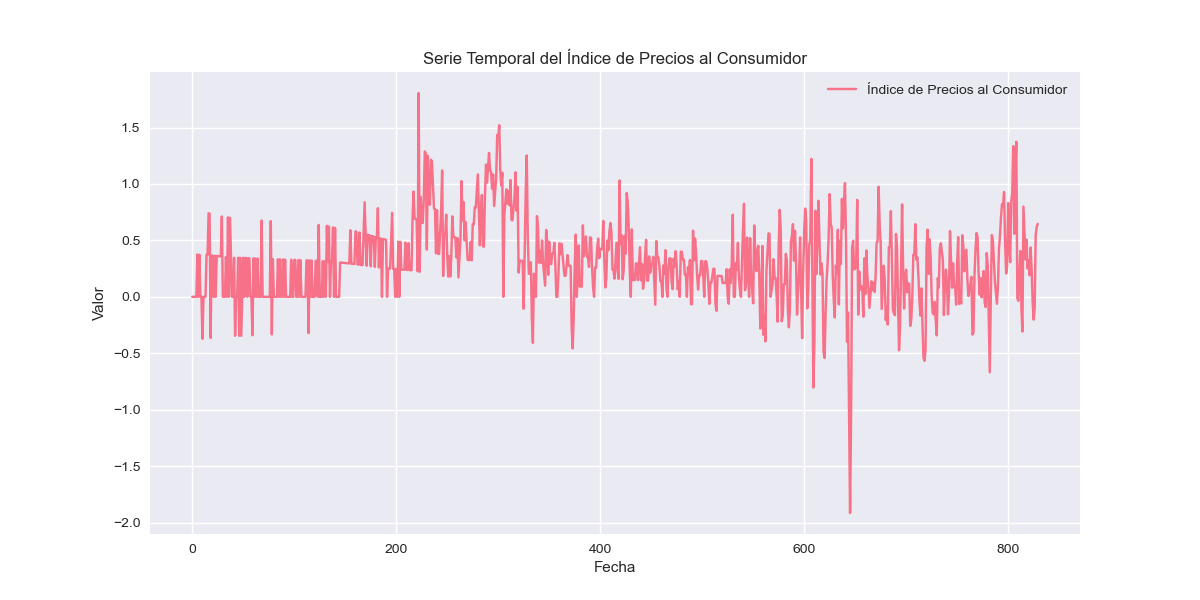
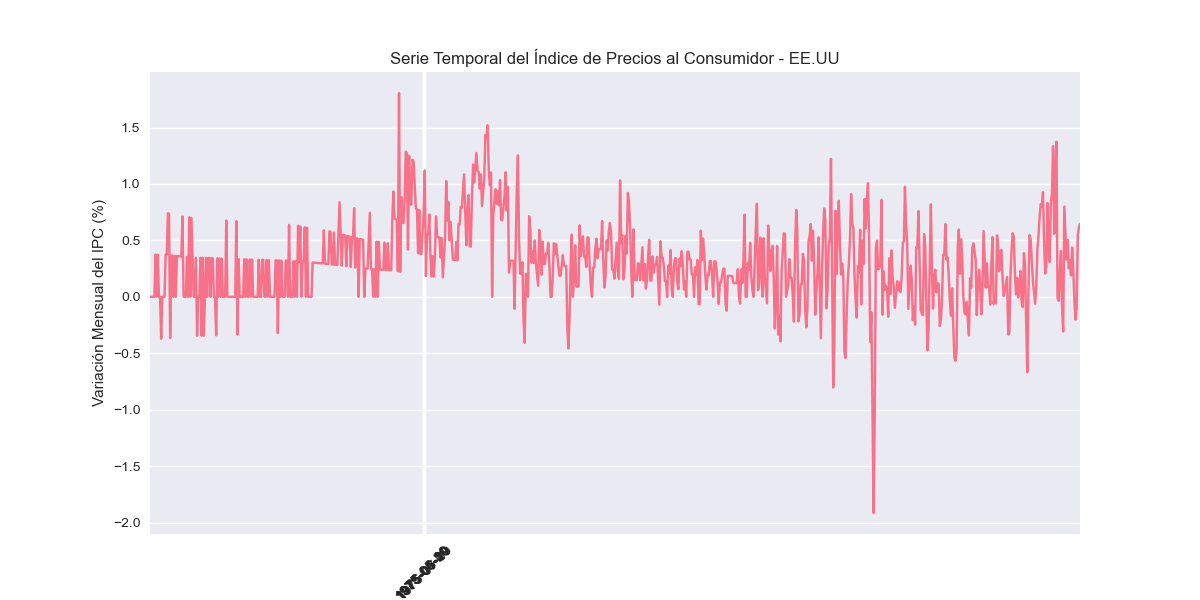
cambios código ipc

diff --git a/econometria_ipc.py b/econometria_ipc.py
@@ -5,6 +5,7 @@
 import numpy as np
 import pandas as pd
 import matplotlib.pyplot as plt
+import matplotlib.dates as mdates
 from pathlib import Path
 from scipy.stats import jarque_bera, probplot
 from statsmodels.tsa.arima.model import ARIMA
@@ -23,35 +24,38 @@ def cargar_datos():
     BASE_DIR = Path(__file__).resolve().parent
     DATA_DIR = BASE_DIR / "datos"
     data_path = DATA_DIR / "dato_posterIPC.csv"
-    df = pd.read_csv(data_path, header=0, names=['Fecha', 'Valor'], parse_dates=[0])
+    df = pd.read_csv(data_path, header=0, names=['Fecha', 'Valor'], parse_dates=['Fecha'],)
+    df.set_index('Fecha', inplace=True)
     print(df.head())
     return df
 # %%==============================
-# índice de precios al consumidor
-# 3. Gráfico de la serie original
+# índice de precios al consumidor- USA
 
+# 3. Gráfico de la serie original
 def graficar_serie(df_ipc):
     BASE_DIR = Path(__file__).resolve().parent
     plt.style.use('seaborn-v0_8')
     sns.set_palette("husl")
     plt.figure(figsize=(12, 6))
-    plt.plot(df_ipc.index, df_ipc['Valor'], label='Índice de Precios al Consumidor')
-    plt.xlabel('Fecha')
-    plt.ylabel('Valor')
-    plt.title('Serie Temporal del Índice de Precios al Consumidor')
-    plt.legend()
+    plt.plot(df_ipc.index, df_ipc['Valor'], label='Índice de Precios al Consumidor en EE.UU (1955-presente) ')
+    plt.xlabel('Año')
+    plt.ylabel('Variación Mensual del IPC (%)')
+    plt.title('Serie Temporal del Índice de Precios al Consumidor - EE.UU')
+    ticks = np.arange(1945, df_ipc.index.max().year + 1, 10)
+    plt.xticks(ticks=ticks, rotation=45)
+    plt.xlim(df_ipc.index.min(), df_ipc.index.max())
     plt.savefig(BASE_DIR / "serie_original.png")  
     plt.close()  
 
 
-#  Gráficos ACF y PACF 
-def graficar_acf_pacf(serie, sufijo="", archivo="acf_pacf.png"):
+#  Gráficos FAC y FACP de la serie original 
+def graficar_fac_facp(serie, sufijo="", archivo="fac_facp.png"):
     fig, axes = plt.subplots(1, 2, figsize=(15, 5))
     BASE_DIR = Path(__file__).resolve().parent
     plot_acf(serie, ax=axes[0], lags=40, title="Función de Autocorrelación (ACF)")
     plot_pacf(serie, ax=axes[1], lags=40, title="Función de Autocorrelación Parcial (PACF)")
     plt.tight_layout()
-    plt.savefig(BASE_DIR / "acf_pacf_original.png")
+    plt.savefig(BASE_DIR / archivo)
     plt.close()
     print(f"Guardada: {archivo}")
 
@@ -73,12 +77,8 @@ def logaritmo_y_graficar(df_ipc):
     plt.savefig(BASE_DIR / "serie_logaritmica.png")
     plt.close()
     
-    # FAC, FACP y ADF de la serie logarítmica
-    graficar_acf_pacf(ipc_serie_log, "Logarítmica", "acf_pacf_log.png")
-    BASE_DIR = Path(__file__).resolve().parent
-    plt.savefig(BASE_DIR / "fac_facp_log.png")
-
-    
+    # FAC, FACP de la serie logarítmica
+    graficar_fac_facp(ipc_serie_log.dropna().reset_index(drop=True), "Logarítmica", "fac_facp_log.png")
     return ipc_serie_log
 
 # 5. Prueba de estacionariedad (ADF)
@@ -103,43 +103,17 @@ def prueba_kpss(serie, nombre="Serie"):
     for nivel, valor in kpss_result[3].items():
         print(f"{nivel}: {valor}")
 
-# Diferenciando la serie para hacerla estacionaria
-def diferenciar_y_graficar(df_ipc):
-    df_ipc_serie_log_diff = df_ipc['Valor'].diff().dropna() 
-    plt.figure(figsize=(12, 6))
-    plt.plot(df_ipc_serie_log_diff.index, df_ipc_serie_log_diff, label='Serie Diferenciada')
-    plt.xlabel('Fecha')
-    plt.ylabel('Valor')
-    plt.title('Serie Temporal Diferenciada')
-    plt.legend()
-    BASE_DIR = Path(__file__).resolve().parent
-    plt.savefig(BASE_DIR / "serie_log_diferenciada.png")
-    plt.close()
-    return df_ipc_serie_log_diff 
-
-# Graficar FAC y FACP de la serie diferenciada
-def graficar_acf_pacf_diferenciada(serie, sufijo="", archivo="fac_facp_diferenciada.png"):
-    fig, axes = plt.subplots(1, 2, figsize=(15, 5))
-    BASE_DIR = Path(__file__).resolve().parent
-    plot_acf(serie, ax=axes[0], lags=40, title="Función de Autocorrelación (ACF) - Diferenciada")
-    plot_pacf(serie, ax=axes[1], lags=40, title="Función de Autocorrelación Parcial (PACF) - Diferenciada")
-    plt.tight_layout()
-    plt.savefig(BASE_DIR / "fac_facp_diferenciada.png")
-    plt.close()
-    print(f"Guardada: {archivo}")
-
 
 if __name__ == "__main__":
     df_ipc = cargar_datos()
     graficar_serie(df_ipc)
-    graficar_acf_pacf(df_ipc['Valor'], "Original", "acf_pacf_original.png")
+    graficar_fac_facp(df_ipc['Valor'], "Original", "fac_facp_original.png")
     prueba_adf(df_ipc['Valor'], "Original")
     prueba_kpss(df_ipc['Valor'], "Original")
-    df_ipc_diff = diferenciar_y_graficar(df_ipc)
-    graficar_acf_pacf_diferenciada(df_ipc_diff, "Diferenciada", "fac_facp_diferenciada.png")
-    prueba_adf(df_ipc_diff, "Diferenciada")
-    prueba_kpss(df_ipc_diff, "Diferenciada")
-    ipc_serie_log = logaritmo_y_graficar(df_ipc)          
+    ipc_serie_log = logaritmo_y_graficar(df_ipc)
+    from pathlib import Path
+    print(Path(__file__).resolve().parent)
+    
 
 
 